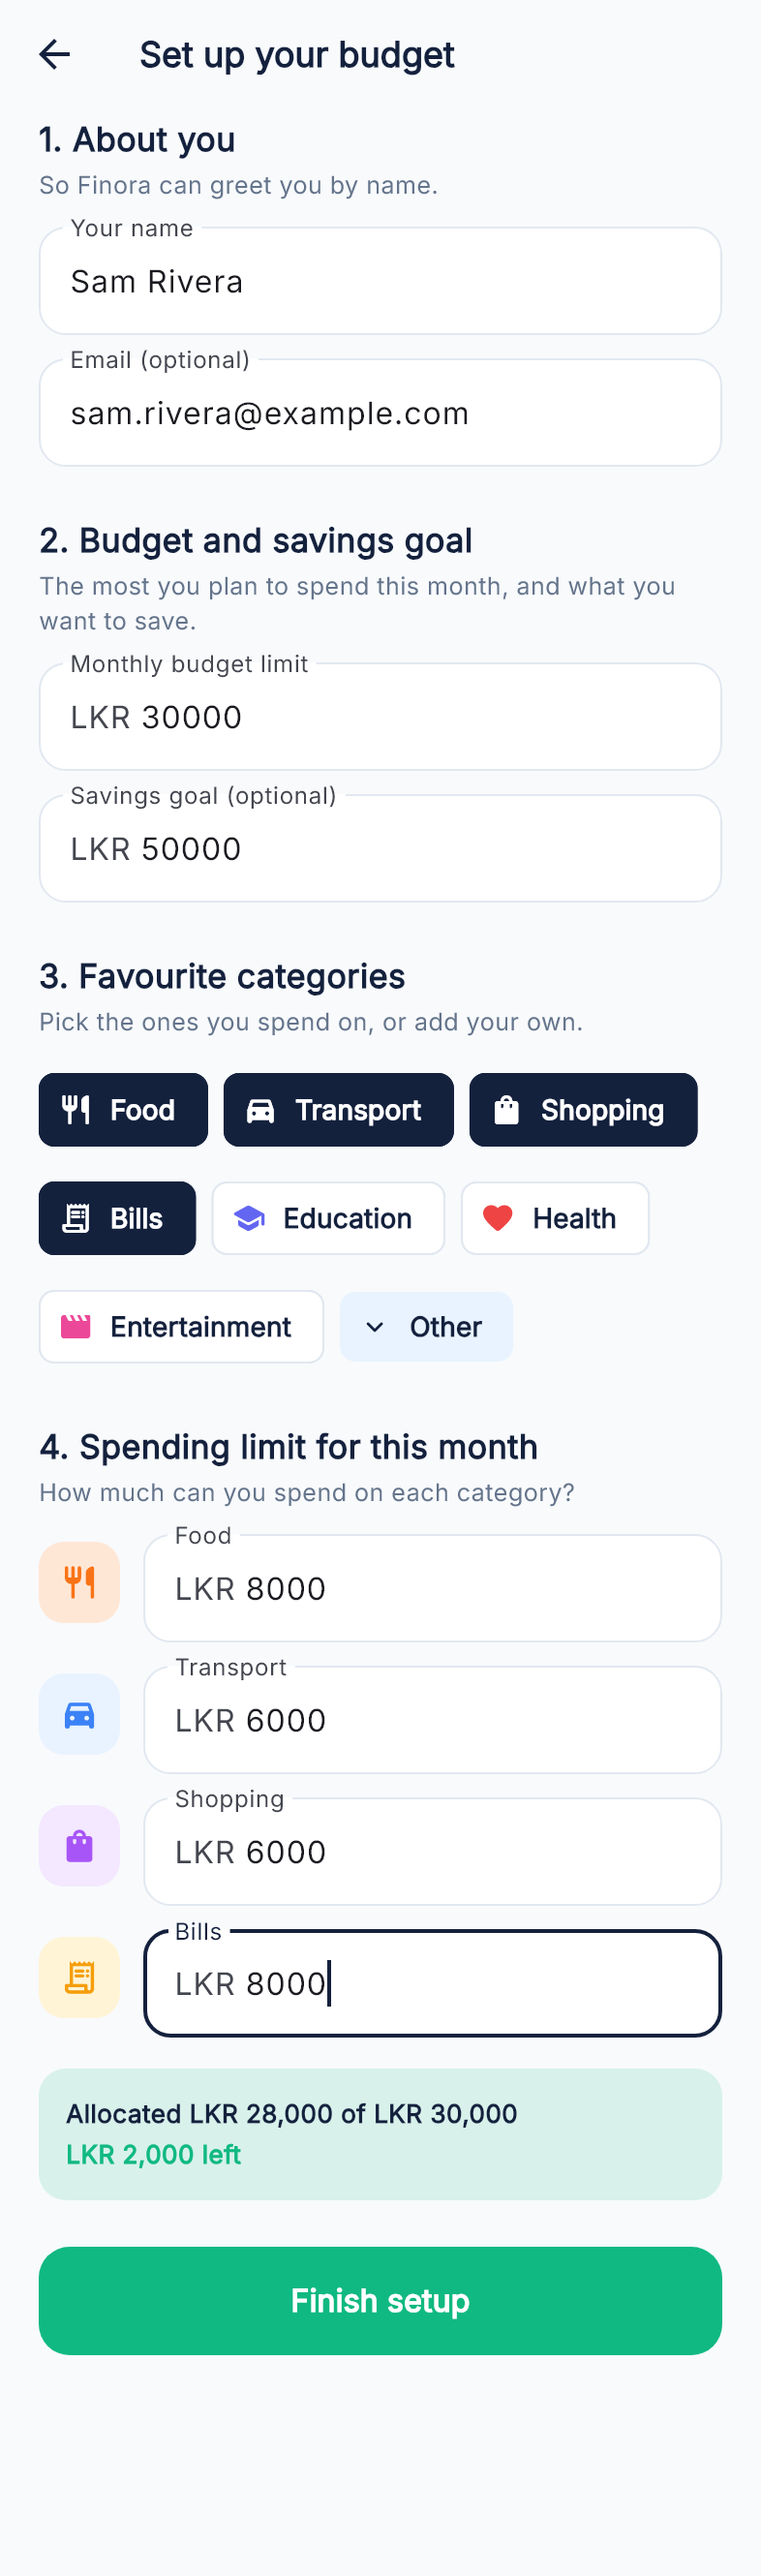
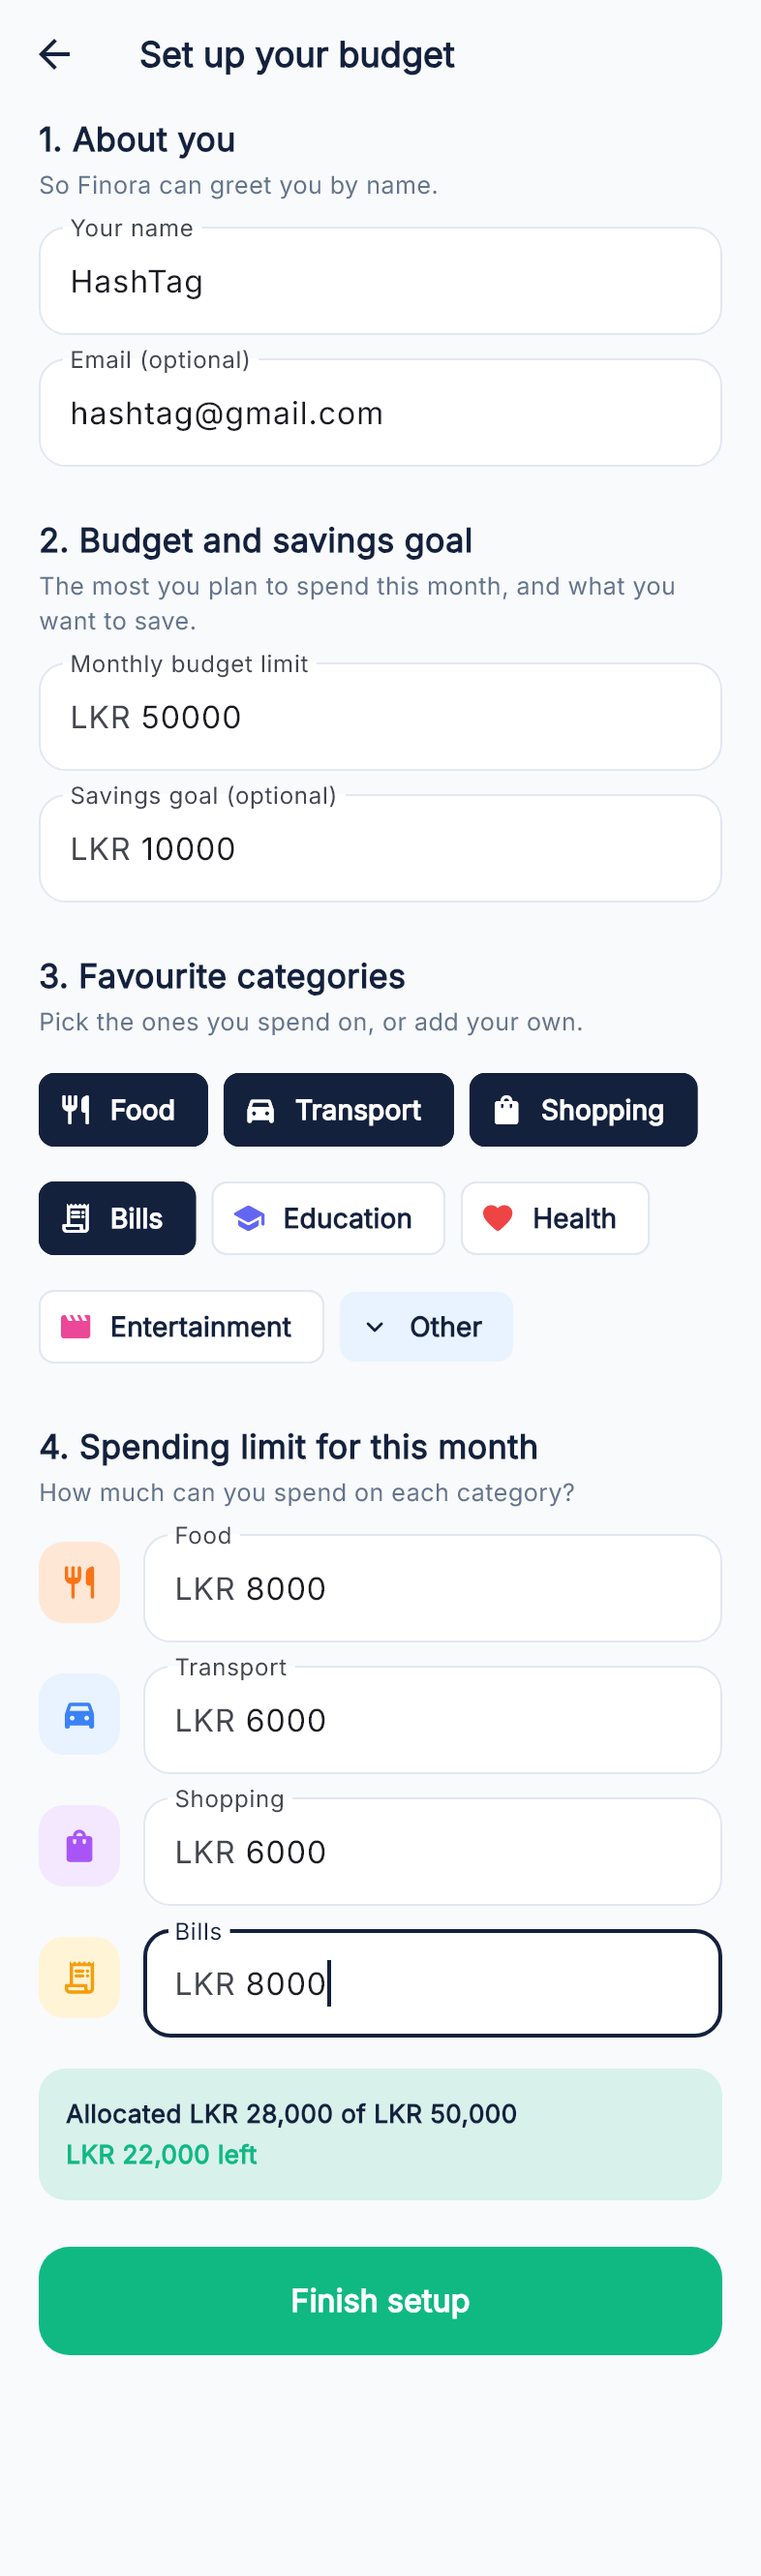
updated

diff --git a/tool/screenshots_test.dart b/tool/screenshots_test.dart
@@ -35,12 +35,12 @@ String _date(int daysAgo, String time) {
   return '${_months[d.month - 1]} ${d.day}, ${d.year}';
 }
 
-/// A month of believable spending for "Sam Rivera".
+/// A month of believable spending for "HashTag".
 FinoraStore _sampleStore() {
   final store = FinoraStore()
-    ..setProfile('Sam Rivera', 'sam.rivera@example.com')
-    ..setMonthlyBudget(30000)
-    ..setSavingsGoal(50000)
+    ..setProfile('HashTag', 'hashtag@gmail.com')
+    ..setMonthlyBudget(50000)
+    ..setSavingsGoal(10000)
     ..setCategoryLimit('Food', 8000)
     ..setCategoryLimit('Transport', 6000)
     ..setCategoryLimit('Shopping', 6000)
@@ -156,10 +156,10 @@ void main() {
     await tester.tap(find.text('Get Started'));
     await tester.pumpAndSettle();
     Finder field(String label) => find.widgetWithText(TextFormField, label);
-    await tester.enterText(field('Your name'), 'Sam Rivera');
-    await tester.enterText(field('Email (optional)'), 'sam.rivera@example.com');
-    await tester.enterText(field('Monthly budget limit'), '30000');
-    await tester.enterText(field('Savings goal (optional)'), '50000');
+    await tester.enterText(field('Your name'), 'HashTag');
+    await tester.enterText(field('Email (optional)'), 'hashtag@gmail.com');
+    await tester.enterText(field('Monthly budget limit'), '50000');
+    await tester.enterText(field('Savings goal (optional)'), '10000');
     for (final c in ['Food', 'Transport', 'Shopping', 'Bills']) {
       await tester.tap(find.text(c));
     }
@@ -221,7 +221,12 @@ void main() {
     await tester.tap(find.byTooltip('Back to dashboard'));
     await tester.pumpAndSettle();
 
-    await tester.tap(find.byTooltip('Notifications (3)'));
+    // The tooltip carries the number of alerts, e.g. "Notifications (2)".
+    await tester.tap(
+      find.byWidgetPredicate(
+        (w) => w is IconButton && (w.tooltip ?? '').startsWith('Notifications'),
+      ),
+    );
     await tester.pumpAndSettle();
     await shot(tester, '12_notifications');
   });
